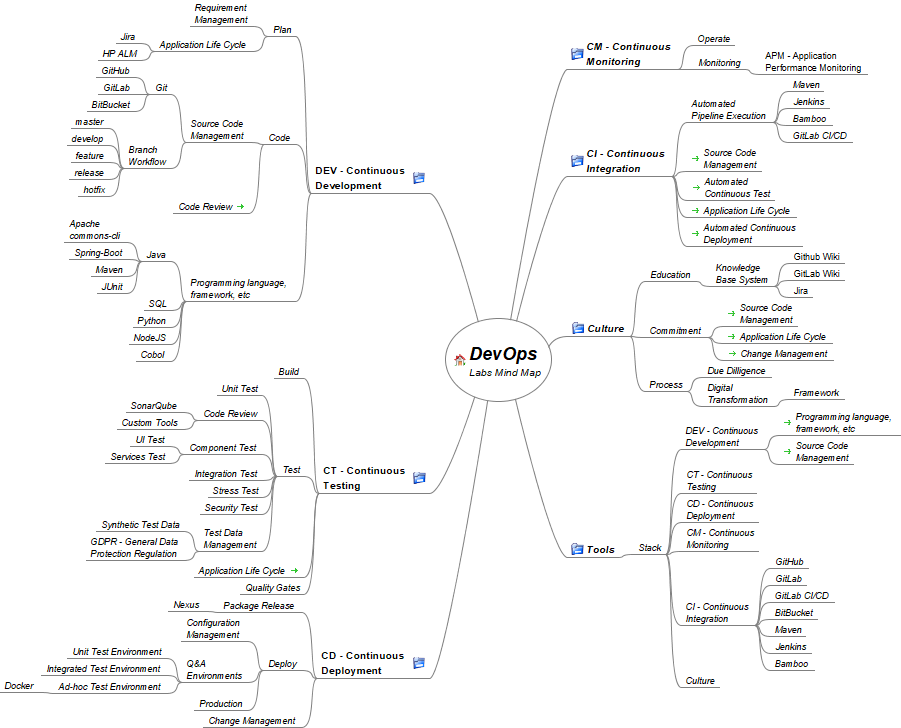
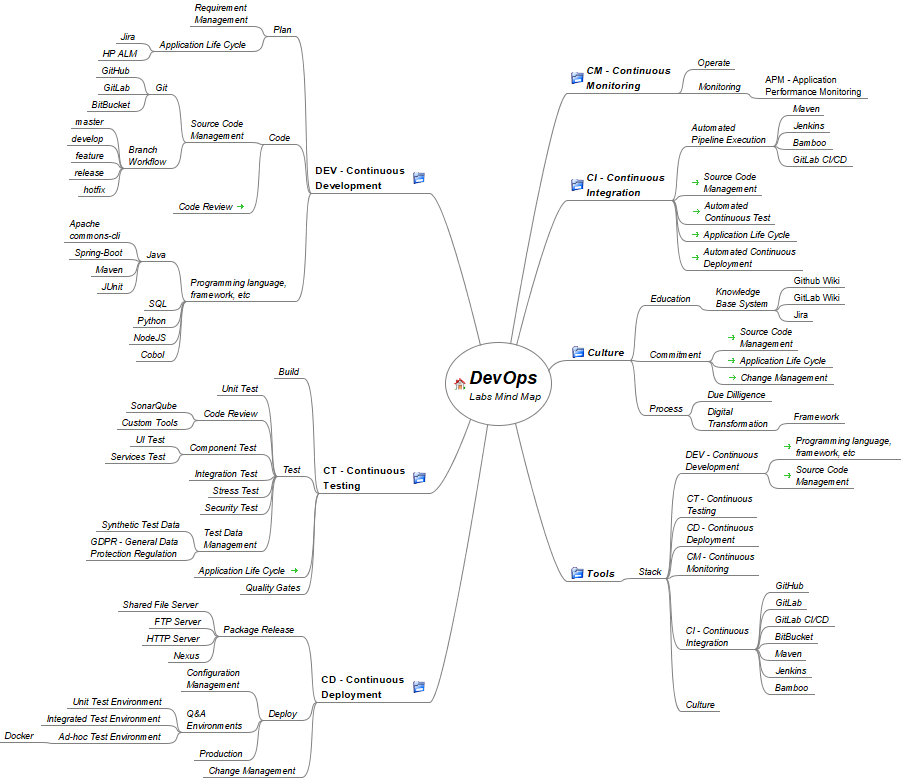
.

diff --git a/doc/MindMap DevOps SCM-BitBucket_CI-Bamboo-Build-Package_DEV-Cobol.mm b/doc/MindMap DevOps SCM-BitBucket_CI-Bamboo-Build-Package_DEV-Cobol.mm
@@ -32,7 +32,7 @@
 </html></richcontent>
 <font BOLD="true" NAME="SansSerif" SIZE="12"/>
 <icon BUILTIN="folder"/>
-<node CREATED="1560512150274" ID="ID_508662412" MODIFIED="1580565660441" TEXT="Plan">
+<node CREATED="1560512150274" ID="ID_508662412" MODIFIED="1580816586985" TEXT="Plan">
 <font ITALIC="true" NAME="SansSerif" SIZE="12"/>
 <node CREATED="1561258133619" ID="ID_437460015" MODIFIED="1580575295236">
 <richcontent TYPE="NODE"><html>
@@ -51,7 +51,7 @@
 <font ITALIC="true" NAME="SansSerif" SIZE="12"/>
 <icon BUILTIN="button_ok"/>
 </node>
-<node CREATED="1580562665107" FOLDED="true" ID="ID_1334502738" MODIFIED="1580575306104">
+<node CREATED="1580562665107" ID="ID_1334502738" MODIFIED="1580816587151">
 <richcontent TYPE="NODE"><html>
   <head>
     
@@ -72,9 +72,9 @@
 </node>
 </node>
 </node>
-<node CREATED="1560512156115" ID="ID_718213434" MODIFIED="1580576366330" TEXT="Code">
+<node CREATED="1560512156115" ID="ID_718213434" MODIFIED="1580816586991" TEXT="Code">
 <font ITALIC="true" NAME="SansSerif" SIZE="12"/>
-<node CREATED="1561256637139" ID="ID_1263394487" MODIFIED="1580576202350">
+<node CREATED="1561256637139" ID="ID_1263394487" MODIFIED="1580816587154">
 <richcontent TYPE="NODE"><html>
   <head>
     
@@ -90,15 +90,15 @@
 </html></richcontent>
 <font ITALIC="true" NAME="SansSerif" SIZE="12"/>
 <icon BUILTIN="button_ok"/>
-<node CREATED="1561754399949" ID="ID_113286676" MODIFIED="1580576205592" TEXT="Git">
+<node CREATED="1561754399949" ID="ID_113286676" MODIFIED="1580816587342" TEXT="Git">
 <font ITALIC="true" NAME="SansSerif" SIZE="12"/>
 <icon BUILTIN="button_ok"/>
-<node CREATED="1561754404189" ID="ID_398705085" MODIFIED="1580575935658" TEXT="GitHub">
+<node CREATED="1561754404189" ID="ID_398705085" MODIFIED="1580816578093" TEXT="BitBucket">
 <font ITALIC="true" NAME="SansSerif" SIZE="12"/>
 <icon BUILTIN="button_ok"/>
 </node>
 </node>
-<node CREATED="1561755369994" ID="ID_481670892" MODIFIED="1580565660751">
+<node CREATED="1561755369994" ID="ID_481670892" MODIFIED="1580816587344">
 <richcontent TYPE="NODE"><html>
   <head>
     
@@ -117,10 +117,6 @@
 <font ITALIC="true" NAME="SansSerif" SIZE="12"/>
 <icon BUILTIN="button_ok"/>
 </node>
-<node CREATED="1580562708574" ID="ID_670448853" MODIFIED="1580575965461" TEXT="develop">
-<font ITALIC="true" NAME="SansSerif" SIZE="12"/>
-<icon BUILTIN="button_ok"/>
-</node>
 </node>
 </node>
 <node CREATED="1561256876461" ID="ID_986045375" LINK="#ID_1958808507" MODIFIED="1580575992813" TEXT="Code Review">
@@ -128,7 +124,7 @@
 <icon BUILTIN="closed"/>
 </node>
 </node>
-<node CREATED="1561305933484" ID="ID_876638900" MODIFIED="1580576367763">
+<node CREATED="1561305933484" ID="ID_876638900" MODIFIED="1580816586992">
 <richcontent TYPE="NODE"><html>
   <head>
     
@@ -169,19 +165,19 @@
 <font ITALIC="true" NAME="SansSerif" SIZE="12"/>
 <icon BUILTIN="button_ok"/>
 </node>
-<node CREATED="1560512179567" FOLDED="true" ID="ID_982319677" MODIFIED="1580576060549" TEXT="Test">
+<node CREATED="1560512179567" ID="ID_982319677" MODIFIED="1580816587001" TEXT="Test">
 <font ITALIC="true" NAME="SansSerif" SIZE="12"/>
 <icon BUILTIN="closed"/>
 <node CREATED="1561256035460" ID="ID_1328115742" MODIFIED="1561755103323" TEXT="Unit Test">
 <font ITALIC="true" NAME="SansSerif" SIZE="12"/>
 </node>
-<node CREATED="1561756305611" FOLDED="true" ID="ID_1958808507" MODIFIED="1580576026422" TEXT="Code Review">
+<node CREATED="1561756305611" ID="ID_1958808507" MODIFIED="1580816587155" TEXT="Code Review">
 <font ITALIC="true" NAME="SansSerif" SIZE="12"/>
 <node CREATED="1561756777680" ID="ID_210874831" MODIFIED="1580562850056" TEXT="Custom Tools">
 <font ITALIC="true" NAME="SansSerif" SIZE="12"/>
 </node>
 </node>
-<node CREATED="1561754752432" FOLDED="true" ID="ID_10616941" MODIFIED="1580576035961" TEXT="Component Test">
+<node CREATED="1561754752432" ID="ID_10616941" MODIFIED="1580816587157" TEXT="Component Test">
 <font ITALIC="true" NAME="SansSerif" SIZE="12"/>
 <node CREATED="1561754803770" ID="ID_937249534" MODIFIED="1561755103323" TEXT="UI Test">
 <font ITALIC="true" NAME="SansSerif" SIZE="12"/>
@@ -199,7 +195,7 @@
 <node CREATED="1580563017539" ID="ID_642069048" MODIFIED="1580563021921" TEXT="Security Test">
 <font ITALIC="true" NAME="SansSerif" SIZE="12"/>
 </node>
-<node CREATED="1561754879897" ID="ID_1210781947" MODIFIED="1580565660614">
+<node CREATED="1561754879897" ID="ID_1210781947" MODIFIED="1580816587160">
 <richcontent TYPE="NODE"><html>
   <head>
     
@@ -243,7 +239,7 @@
 <icon BUILTIN="closed"/>
 </node>
 </node>
-<node CREATED="1560512039698" FOLDED="true" ID="ID_1105506534" MODIFIED="1580576164329" POSITION="right">
+<node CREATED="1560512039698" ID="ID_1105506534" MODIFIED="1580816586807" POSITION="right">
 <richcontent TYPE="NODE"><html>
   <head>
     
@@ -263,7 +259,7 @@
 <node CREATED="1560512194023" ID="ID_1743855136" MODIFIED="1561754323744" TEXT="Operate">
 <font ITALIC="true" NAME="SansSerif" SIZE="12"/>
 </node>
-<node CREATED="1560512197120" FOLDED="true" ID="ID_1998879544" MODIFIED="1580576161465" TEXT="Monitoring">
+<node CREATED="1560512197120" ID="ID_1998879544" MODIFIED="1580816587004" TEXT="Monitoring">
 <font ITALIC="true" NAME="SansSerif" SIZE="12"/>
 <node CREATED="1580563670439" ID="ID_615061923" MODIFIED="1580563686687">
 <richcontent TYPE="NODE"><html>
@@ -298,7 +294,7 @@
 </html></richcontent>
 <font ITALIC="true" NAME="SansSerif" SIZE="12"/>
 <icon BUILTIN="folder"/>
-<node CREATED="1561258037747" ID="ID_1932818956" MODIFIED="1580576188042">
+<node CREATED="1561258037747" ID="ID_1932818956" MODIFIED="1580816587005">
 <richcontent TYPE="NODE"><html>
   <head>
     
@@ -375,7 +371,7 @@
 <icon BUILTIN="closed"/>
 </node>
 </node>
-<node CREATED="1561156710848" FOLDED="true" ID="ID_1643212578" MODIFIED="1580576435245" POSITION="right">
+<node CREATED="1561156710848" ID="ID_1643212578" MODIFIED="1580816586813" POSITION="right">
 <richcontent TYPE="NODE"><html>
   <head>
     
@@ -389,10 +385,10 @@
 <font ITALIC="true" NAME="SansSerif" SIZE="12"/>
 <icon BUILTIN="folder"/>
 <icon BUILTIN="closed"/>
-<node CREATED="1561156922814" FOLDED="true" ID="ID_284583337" MODIFIED="1580576296464" TEXT="Education">
+<node CREATED="1561156922814" ID="ID_284583337" MODIFIED="1580816587007" TEXT="Education">
 <font ITALIC="true" NAME="SansSerif" SIZE="12"/>
 <icon BUILTIN="closed"/>
-<node CREATED="1561756061622" ID="ID_1195832005" MODIFIED="1580565660618">
+<node CREATED="1561756061622" ID="ID_1195832005" MODIFIED="1580816587162">
 <richcontent TYPE="NODE"><html>
   <head>
     
@@ -412,7 +408,7 @@
 <node CREATED="1561756183759" ID="ID_1090451672" MODIFIED="1561756196491" TEXT="Jira"/>
 </node>
 </node>
-<node CREATED="1561156922814" ID="ID_423511767" MODIFIED="1580565660465" TEXT="Commitment">
+<node CREATED="1561156922814" ID="ID_423511767" MODIFIED="1580816587011" TEXT="Commitment">
 <font ITALIC="true" NAME="SansSerif" SIZE="12"/>
 <node CREATED="1561306436907" ID="ID_1587091865" LINK="#ID_1263394487" MODIFIED="1580576303183">
 <richcontent TYPE="NODE"><html>
@@ -440,12 +436,12 @@
 <icon BUILTIN="closed"/>
 </node>
 </node>
-<node CREATED="1561755642554" FOLDED="true" ID="ID_666309831" MODIFIED="1580576381236" TEXT="Process">
+<node CREATED="1561755642554" ID="ID_666309831" MODIFIED="1580816587014" TEXT="Process">
 <font ITALIC="true" NAME="SansSerif" SIZE="12"/>
 <node CREATED="1561755728910" ID="ID_1505249018" MODIFIED="1561755735589" TEXT="Due Dilligence">
 <font ITALIC="true" NAME="SansSerif" SIZE="12"/>
 </node>
-<node CREATED="1561757101309" FOLDED="true" ID="ID_815982526" MODIFIED="1580576327509">
+<node CREATED="1561757101309" ID="ID_815982526" MODIFIED="1580816587163">
 <richcontent TYPE="NODE"><html>
   <head>
     
@@ -482,11 +478,15 @@
 </html></richcontent>
 <font BOLD="true" NAME="SansSerif" SIZE="12"/>
 <icon BUILTIN="folder"/>
-<node CREATED="1560512185562" ID="ID_579638188" MODIFIED="1580576099951" TEXT="Package Release">
+<node CREATED="1560512185562" ID="ID_579638188" MODIFIED="1580816621664" TEXT="Package Release">
 <font ITALIC="true" NAME="SansSerif" SIZE="12"/>
-<icon BUILTIN="closed"/>
+<icon BUILTIN="button_ok"/>
+<node CREATED="1580816605451" ID="ID_1886866716" MODIFIED="1580816630318" TEXT="Shared File System">
+<font ITALIC="true" NAME="SansSerif" SIZE="12"/>
+<icon BUILTIN="button_ok"/>
 </node>
-<node CREATED="1560512187847" FOLDED="true" ID="ID_1244701246" MODIFIED="1580576142996" TEXT="Deploy">
+</node>
+<node CREATED="1560512187847" ID="ID_1244701246" MODIFIED="1580816587019" TEXT="Deploy">
 <font ITALIC="true" NAME="SansSerif" SIZE="12"/>
 <icon BUILTIN="closed"/>
 <node CREATED="1561905635985" ID="ID_1304756611" MODIFIED="1580576104694">
@@ -505,7 +505,7 @@
 </html></richcontent>
 <icon BUILTIN="closed"/>
 </node>
-<node CREATED="1561755141295" FOLDED="true" ID="ID_1018176172" MODIFIED="1580576132480">
+<node CREATED="1561755141295" ID="ID_1018176172" MODIFIED="1580816587165">
 <richcontent TYPE="NODE"><html>
   <head>
     
@@ -527,7 +527,7 @@
 <node CREATED="1580563800105" ID="ID_1282979503" MODIFIED="1580563868915" TEXT="Integrated Test Environment">
 <font ITALIC="true" NAME="SansSerif" SIZE="12"/>
 </node>
-<node CREATED="1580563834563" FOLDED="true" ID="ID_585020028" MODIFIED="1580576116103" TEXT="Ad-hoc Test Environment">
+<node CREATED="1580563834563" ID="ID_585020028" MODIFIED="1580816587345" TEXT="Ad-hoc Test Environment">
 <font ITALIC="true" NAME="SansSerif" SIZE="12"/>
 <node CREATED="1580565271301" ID="ID_1103923230" MODIFIED="1580565274385" TEXT="Docker">
 <font ITALIC="true" NAME="SansSerif" SIZE="12"/>
@@ -535,6 +535,10 @@
 </node>
 </node>
 <node CREATED="1561256123376" ID="ID_1850186943" MODIFIED="1580576135342" TEXT="Production">
+<font ITALIC="true" NAME="SansSerif" SIZE="12"/>
+<icon BUILTIN="closed"/>
+</node>
+<node CREATED="1580816720498" ID="ID_1431177492" MODIFIED="1580816729911" TEXT="Deployment Method">
 <font ITALIC="true" NAME="SansSerif" SIZE="12"/>
 <icon BUILTIN="closed"/>
 </node>
@@ -557,9 +561,9 @@
 </html></richcontent>
 <font ITALIC="true" NAME="SansSerif" SIZE="12"/>
 <icon BUILTIN="folder"/>
-<node CREATED="1561213490096" ID="ID_112888288" MODIFIED="1580565660481" TEXT="Stack">
+<node CREATED="1561213490096" ID="ID_112888288" MODIFIED="1580816587031" TEXT="Stack">
 <font ITALIC="true" NAME="SansSerif" SIZE="12"/>
-<node CREATED="1561754196067" FOLDED="true" ID="ID_185870057" MODIFIED="1580576345664">
+<node CREATED="1561754196067" ID="ID_185870057" MODIFIED="1580816587168">
 <richcontent TYPE="NODE"><html>
   <head>
     
@@ -659,7 +663,7 @@
 <font ITALIC="true" NAME="SansSerif" SIZE="12"/>
 <icon BUILTIN="closed"/>
 </node>
-<node CREATED="1561754239862" ID="ID_1478510419" MODIFIED="1580576394210">
+<node CREATED="1561754239862" ID="ID_1478510419" MODIFIED="1580816587170">
 <richcontent TYPE="NODE"><html>
   <head>
     

diff --git a/doc/MindMap DevOps.mm b/doc/MindMap DevOps.mm
@@ -534,7 +534,16 @@
 <icon BUILTIN="folder"/>
 <node CREATED="1560512185562" ID="ID_579638188" MODIFIED="1580660319052" TEXT="Package Release">
 <font ITALIC="true" NAME="SansSerif" SIZE="12"/>
-<node CREATED="1580563366961" ID="ID_239408375" MODIFIED="1580563370343" TEXT="Nexus">
+<node CREATED="1580816442000" ID="ID_277895464" MODIFIED="1580816785944" TEXT="Shared File Server">
+<font ITALIC="true" NAME="SansSerif" SIZE="12"/>
+</node>
+<node CREATED="1580816448898" ID="ID_556443252" MODIFIED="1580816785944" TEXT="FTP Server">
+<font ITALIC="true" NAME="SansSerif" SIZE="12"/>
+</node>
+<node CREATED="1580816452947" ID="ID_1024160590" MODIFIED="1580816785944" TEXT="HTTP Server">
+<font ITALIC="true" NAME="SansSerif" SIZE="12"/>
+</node>
+<node CREATED="1580563366961" ID="ID_239408375" MODIFIED="1580816785944" TEXT="Nexus">
 <font ITALIC="true" NAME="SansSerif" SIZE="12"/>
 </node>
 </node>
